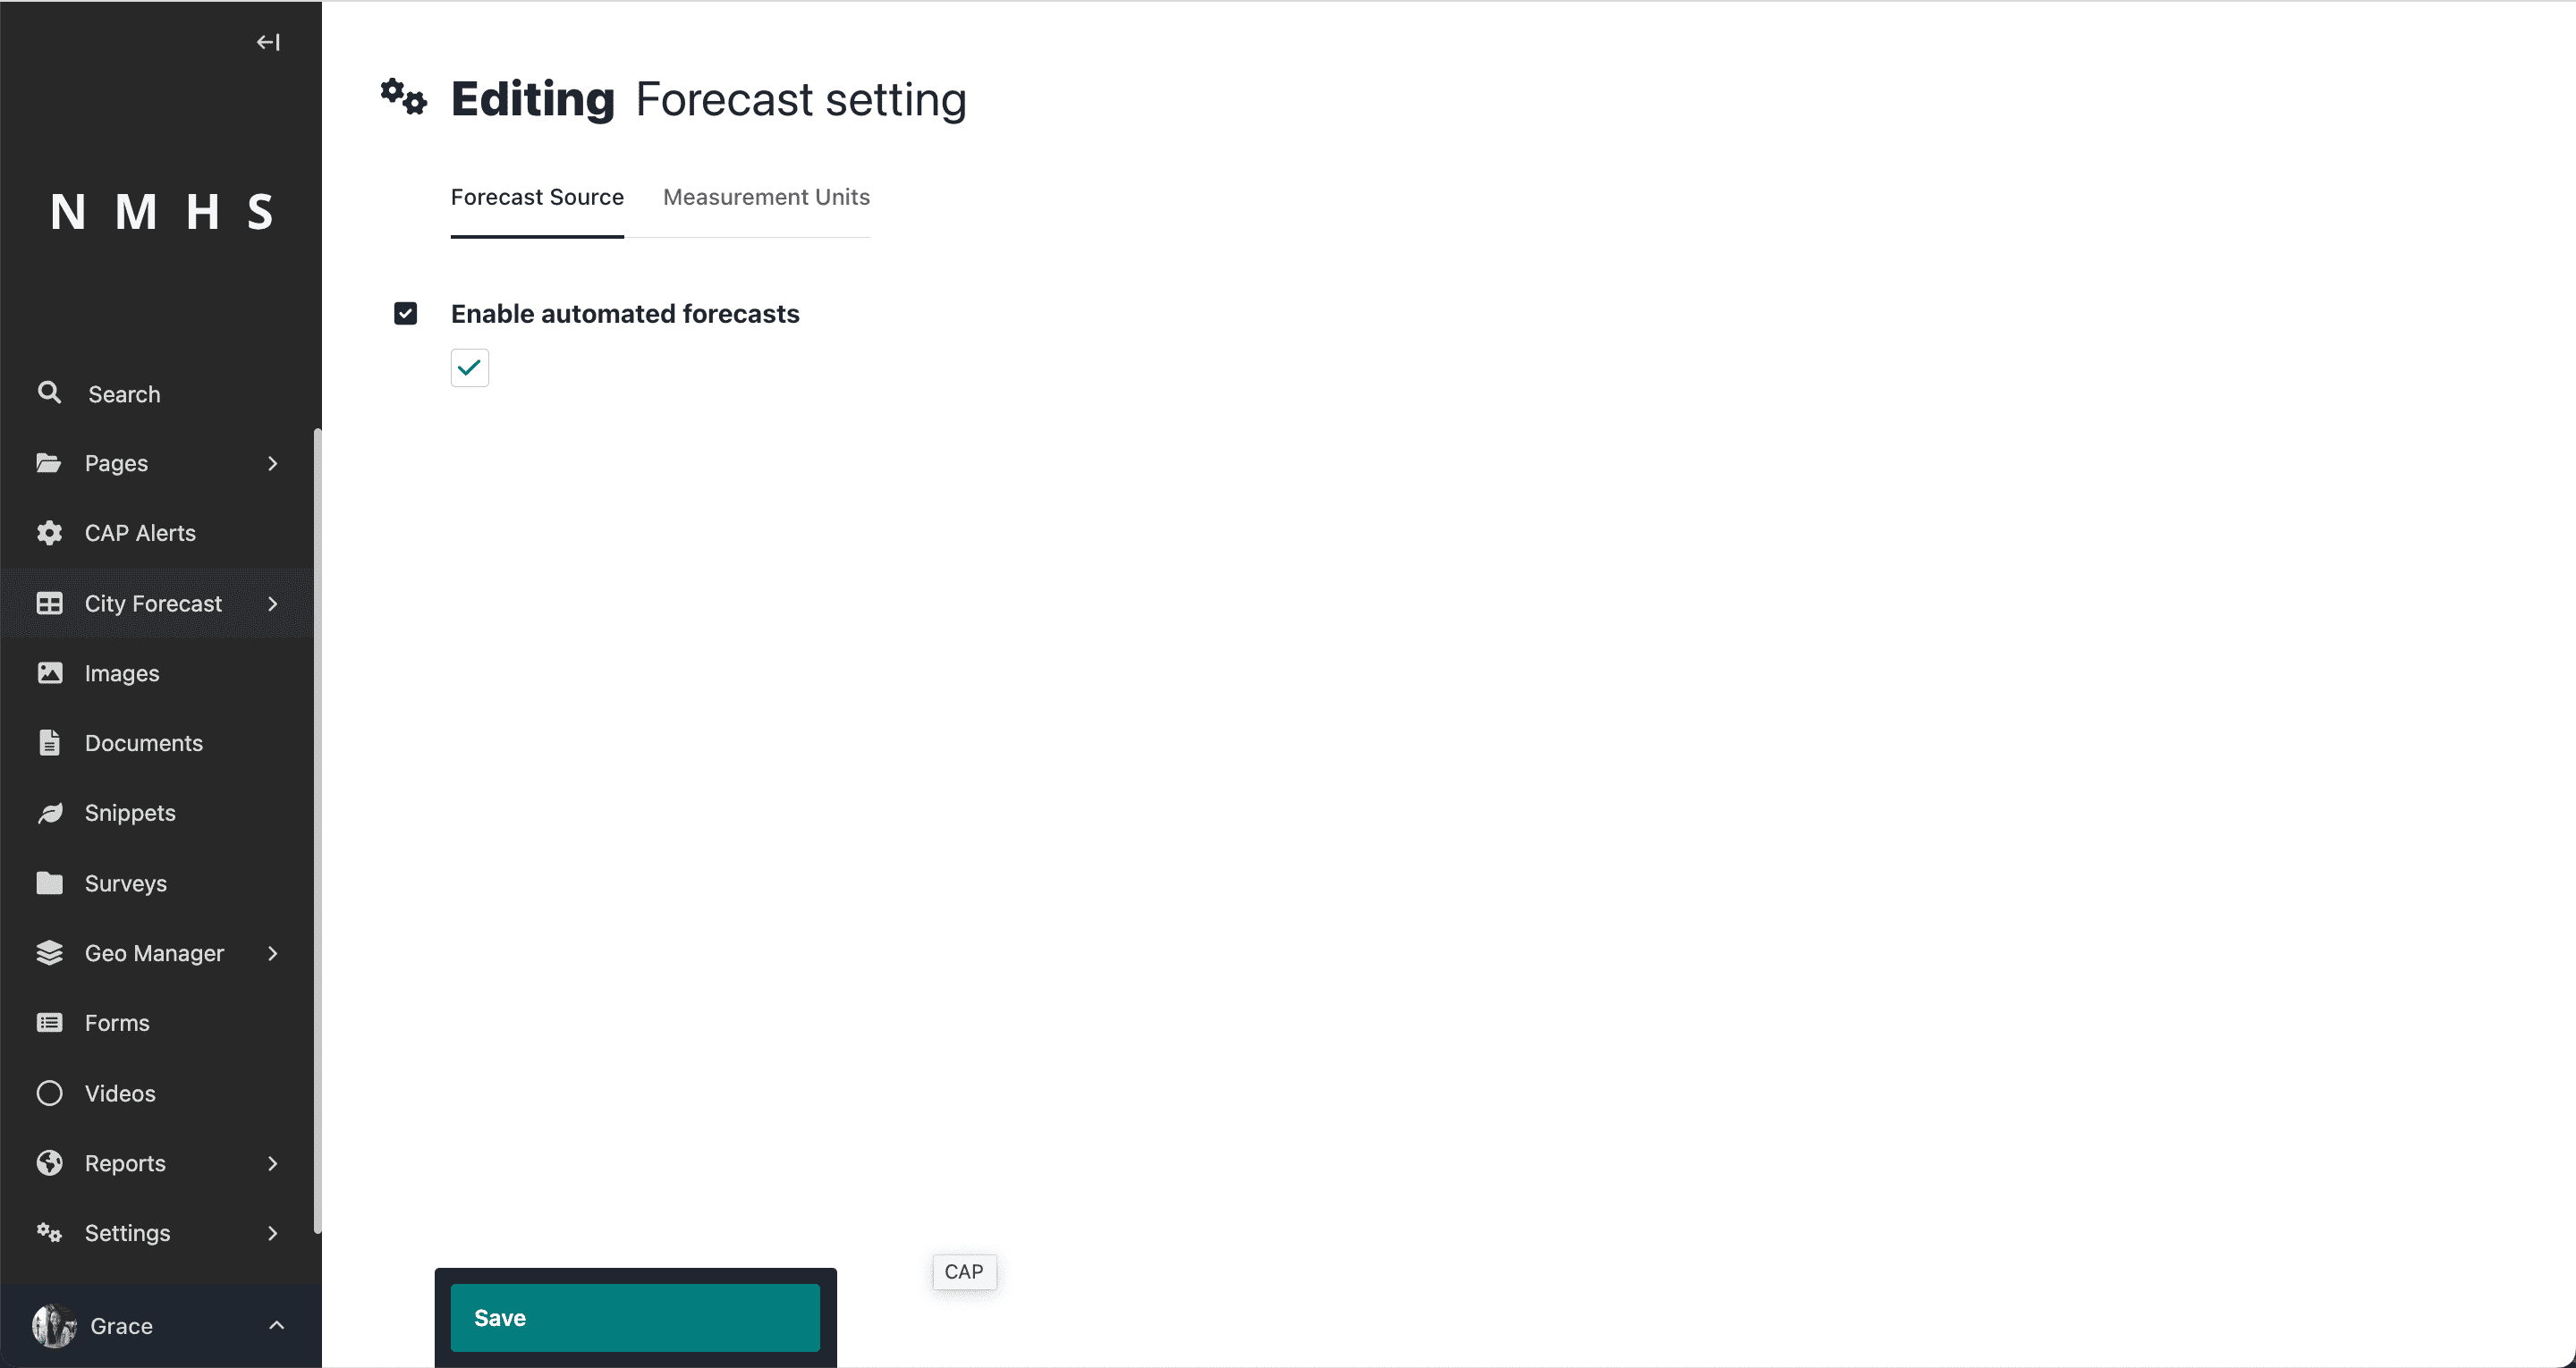
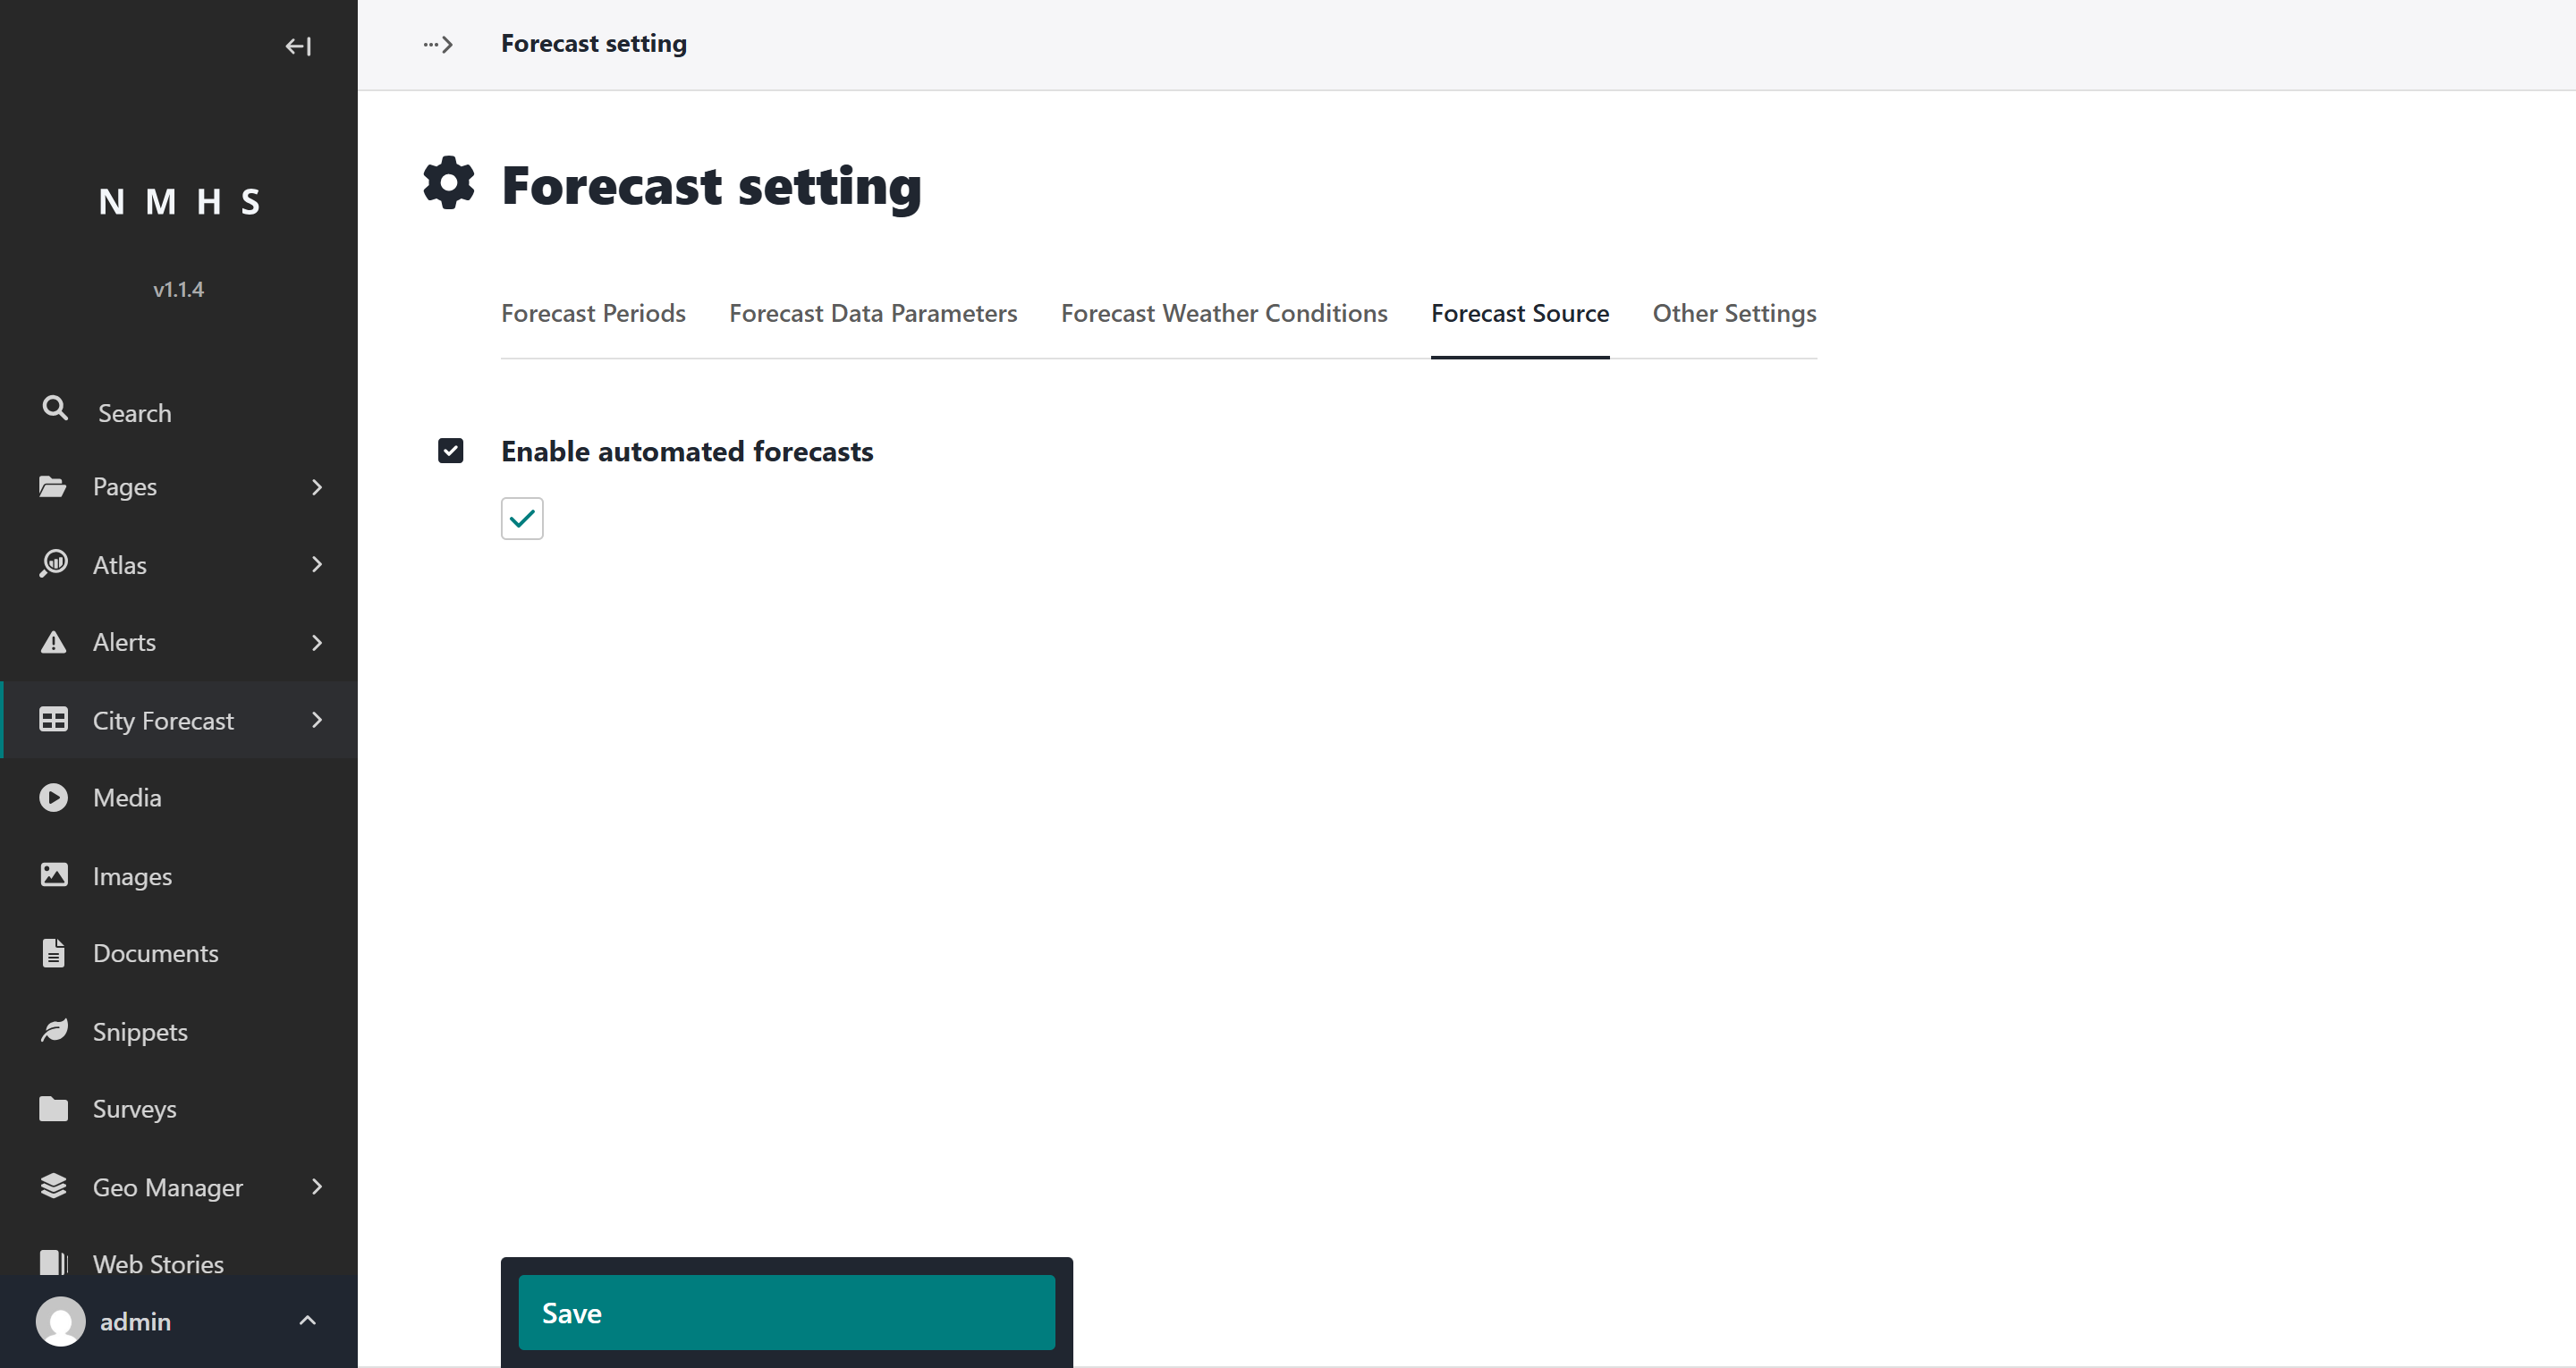
docs: document automated city forecast fetching from Yr.no (#664)
* docs: add CSV upload guide for city forecasts

Step-by-step instructions for uploading city forecast data via CSV,
including configuration, city setup, template download, data entry,
column matching, and publishing. Includes screenshots for each step.

* docs: document Yr.no automated fetching and refresh guide screenshots

- Add "Fetching from an external source" section to city forecasts guide
- Document enable/disable behaviour, forecast variables, period auto-creation
- Add troubleshooting table for common fetch failures
- Update autoforecast.png, 03b_filled_csv_excel.png, and two other screenshots
- Add myst_heading_anchors to conf.py for anchor link support
- Add cross-link in homepage-map.md

---------

Pull request: docs: document automated city forecast fetching from Yr.no
Instructions for enabling and managing automated forecast fetching from Yr.no (api.met.no), including setup steps, variable coverage, forecast period auto-creation, coexistence with CSV uploads, first-fetch behaviour, and a troubleshooting table for common failure modes. Includes updated screenshots.

## Changes

- Explain how to enable automated fetching and what happens when it is disabled or re-enabled
- Document which forecast variables are stored and note that relative humidity is not stored by ClimWeb (must be entered manually or via CSV)
- Explain that Forecast Periods are created automatically from Yr.no hourly data, no manual setup needed
- Clarify that CSV uploads and Yr.no fetches use different forecast periods and do not overwrite each other
- Document first-fetch bulk behaviour so admins know what to expect on initial setup
- Add troubleshooting table covering the most common failure modes: stopped updates, no data after setup (site address or network), stale data, cities missing forecasts, outage gaps, and incorrect condition icons
- Add cross-link from `homepage-map.md` to the new section

diff --git a/docs/conf.py b/docs/conf.py
@@ -55,6 +55,10 @@ extensions = [
 if not on_rtd:
     extensions.append("sphinxcontrib.spelling")
 
+# Generate HTML anchors for headings up to level 3 (###), so markdown links
+# like "Other-Page.md#some-heading" between doc pages resolve correctly.
+myst_heading_anchors = 3
+
 # Add any paths that contain templates here, relative to this directory.
 templates_path = ["_templates"]
 

diff --git a/docs/_docs/Manage-City-Forecasts.md b/docs/_docs/Manage-City-Forecasts.md
@@ -1,6 +1,7 @@
 # City Forecasts
 
 City forecasts on the homepage and forecasts page can be added in three ways:
+City forecasts on the homepage and forecasts page can be added in three ways:
 
 1. Manually adding daily forecasts
 2. Uploading a CSV file prepared offline
@@ -21,21 +22,231 @@ For the CSV upload method, you also need a spreadsheet application such as Micro
 The **City Forecast** menu in the left sidebar has five items: Cities, Daily Weather, Add Forecasts, Load Forecasts, and Settings.
 
 ![City Forecast menu in the left sidebar, expanded to show five items: Cities, Daily Weather, Add Forecasts, Load Forecasts, and Settings](../_static/images/city_forecasts/forecast_explorer.png "City Forecast menu")
+2. Uploading a CSV file prepared offline
+3. Fetching city forecasts automatically from an external source
 
+For step-by-step instructions on CSV uploads, see [Uploading a CSV forecast](#uploading-a-csv-forecast-manually).
+
+> **Note:** The forecast manager comes with predefined weather conditions and icons. See the Yr weather symbols documentation for icons and naming conventions: <https://api.met.no/weatherapi/weathericon/2.0/documentation>
+
+## Before you start
+
+You need a ClimWeb admin account with staff access. Go to your site's admin URL (for example, `https://your-nmhs-site.org/cms-admin/`) and sign in with your credentials. Your system administrator should have given you this URL when your account was created. If you do not have it, ask them. It typically ends in `/cms-admin/` or `/admin/`. If you do not have an account, contact your system administrator.
+
+For the CSV upload method, you also need a spreadsheet application such as Microsoft Excel or LibreOffice Calc.
+
+## Manually adding forecasts
+
+The **City Forecast** menu in the left sidebar has five items: Cities, Daily Weather, Add Forecasts, Load Forecasts, and Settings.
+
+![City Forecast menu in the left sidebar, expanded to show five items: Cities, Daily Weather, Add Forecasts, Load Forecasts, and Settings](../_static/images/city_forecasts/forecast_explorer.png "City Forecast menu")
+
+You can:
 You can:
 - Add/Edit/Delete a city (city name and location).
 
     ![Add City form showing City Name set to Gondar, coordinates filled in as 12.60417, 37.46833, and a map pin placed over northern Ethiopia](../_static/images/city_forecasts/add_city.png "Add City form with geocoded location")
+    ![Add City form showing City Name set to Gondar, coordinates filled in as 12.60417, 37.46833, and a map pin placed over northern Ethiopia](../_static/images/city_forecasts/add_city.png "Add City form with geocoded location")
 
 - Import city forecasts in CSV format.
 
+    ![City Forecast menu with Add Forecasts highlighted, showing the Forecast Manager page with a CSV upload area and an empty data grid](../_static/images/city_forecasts/add_forecast_explorer.png "City Forecast menu: Add Forecasts selected")
     ![City Forecast menu with Add Forecasts highlighted, showing the Forecast Manager page with a CSV upload area and an empty data grid](../_static/images/city_forecasts/add_forecast_explorer.png "City Forecast menu: Add Forecasts selected")
 
 
     Import city forecasts from a CSV file or type values into the data grid. To enter data manually, click any cell in the grid and type the value. When you are finished entering data, fill in the **Forecasts Date** and **Effective period** fields and click **Save**. For step-by-step CSV upload instructions, see [Uploading a CSV forecast](#uploading-a-csv-forecast-manually).
 
     ![Add Forecast page with a CSV file selected, Forecasts Date set to 2023-07-10, Match Fields dropdowns for City, Min Temp, Max Temp, and Condition, and a data grid showing three sample cities](../_static/images/city_forecasts/add_forecast.png "Add Forecast page with CSV uploaded and fields matched")
+    Import city forecasts from a CSV file or type values into the data grid. To enter data manually, click any cell in the grid and type the value. When you are finished entering data, fill in the **Forecasts Date** and **Effective period** fields and click **Save**. For step-by-step CSV upload instructions, see [Uploading a CSV forecast](#uploading-a-csv-forecast-manually).
 
+    ![Add Forecast page with a CSV file selected, Forecasts Date set to 2023-07-10, Match Fields dropdowns for City, Min Temp, Max Temp, and Condition, and a data grid showing three sample cities](../_static/images/city_forecasts/add_forecast.png "Add Forecast page with CSV uploaded and fields matched")
+
+- Preview previously added city forecasts (last 7 days).
+
+    ![City Forecast menu with Load Forecasts highlighted, showing a forecast data table and weather map of East Africa side by side](../_static/images/city_forecasts/load_forecast_explorer.png "City Forecast menu: Load Forecasts selected")
+
+    Switch between available dates and view data in either table or map format.
+
+    ![Load Forecasts page showing a date selector set to July 19, 2023, a table of 17 cities with Min Temp, Max Temp, and Condition columns, and a weather icon map of East Africa](../_static/images/city_forecasts/load_forecast.png "Load Forecasts: date selector, data table, and weather map")
+
+- Add a daily weather summary.
+
+    ![City Forecast menu with Daily Weather highlighted, showing the Daily Weathers list with one entry and an Add daily weather button](../_static/images/city_forecasts/daily_weather_explorer.png "City Forecast menu: Daily Weather selected")
+
+    ![New Daily Weather form with three sections: Weather Summary with a date field and rich text editor, Weather Forecast with a date field and rich text editor, and Extremes with a date field](../_static/images/city_forecasts/daily_weather.png "New Daily Weather form")
+
+    The daily weather summary form has three sections:
+
+    - **Weather Summary**: set the summary date and describe observed conditions using the rich text editor.
+    - **Weather Forecast**: set the forecast date and describe expected conditions.
+    - **Extremes**: add records of extreme station readings from the previous day (for example, the hottest or coldest station). Each entry requires a title, location name, and numeric value.
+
+    Here is how it appears on the website:
+
+    ![Public Daily Weather Report page showing a Stations with Extreme Measurements section listing the hottest and coldest stations, a Forecast Summary paragraph, and a Past Weather Summary paragraph](../_static/images/city_forecasts/daily_weather_preview.png "Daily Weather Report as it appears on the public website")
+
+
+## Uploading a CSV forecast manually
+
+Prepare forecast data offline in a spreadsheet, then upload it here.
+
+> **Note:** You must be logged in to the ClimWeb admin before following these steps. Go to your site's admin URL (for example, `https://your-nmhs-site.org/cms-admin/`) and sign in with your credentials.
+
+If you are setting up ClimWeb for the first time and have not added any cities or configured forecast parameters, start at Step 1. If your instance already has cities, parameters, and at least one forecast period configured, jump straight to [Step 3](#step-3-download-the-csv-template). If you are not sure, start at Step 1.
+
+### Step 1: Configure forecast setting
+
+Forecast settings control three things: what time periods you can forecast for, what data columns appear in your CSV template, and what weather condition icons are available.
+
+Go to **Settings → Forecast setting** in the left sidebar.
+
+![Forecast setting page showing the Forecast Periods tab with one period configured: Day at 12:00](../_static/images/city_forecasts/csv_upload/01_forecast_settings_periods.png "Forecast setting: Forecast Periods tab")
+
+#### Forecast Periods
+
+Click **+ Add Forecast Period**. Set the **Forecast Effective Time** to `12:00` and the **Label** to `Day`. If your service publishes morning and afternoon forecasts separately, you can add a second period here; otherwise one is enough.
+
+Click **Save**.
+
+#### Forecast Data Parameters
+
+Click the **Forecast Data Parameters** tab. Each parameter you add here becomes a column in your CSV template.
+
+Click **+ Add Data Parameter** for each of the following parameters. Leave **Use predefined parameters** ticked. Set **Parameter Type** to `Number` for all four.
+
+| Parameter Label | Parameter | Parameter Type | Unit of measurement |
+|---|---|---|---|
+| Max Temperature | Maximum Air Temperature | Number | °C |
+| Min Temperature | Minimum Air Temperature | Number | °C |
+| Wind Speed | Wind Speed | Number | m/s |
+| Relative Humidity | Relative Humidity | Number | % |
+
+![Forecast Data Parameters tab showing all four parameters configured: Max Temperature, Min Temperature, Wind Speed, and Relative Humidity, each with Parameter Type set to Number](../_static/images/city_forecasts/csv_upload/02_forecast_data_parameters.png "Forecast setting: Forecast Data Parameters tab")
+
+Click **Save**.
+
+#### Forecast Weather Conditions
+
+Click the **Forecast Weather Conditions** tab. Conditions are the weather icons that appear on the forecast map. The label you give each condition becomes the value in your CSV's Condition column, so spelling and capitalisation must match exactly. In some documentation this is called a condition code.
+
+Click **+ Add Weather Condition**. For the **Weather Symbol** field, click the button to open the **Choose symbol** dialog.
+
+![Weather symbol picker showing a grid of icons including Clear sky Day, Partly Cloudy Day, Rain, and Heavy Rain](../_static/images/city_forecasts/csv_upload/04_symbol_picker.png "Weather symbol picker")
+
+Click an icon. Add these four conditions.
+
+| Symbol to select | Label |
+|---|---|
+| Clear sky Day | Clear Sky |
+| Partly Cloudy Day | Partly Cloudy |
+| Rain | Rain |
+| Heavy Rain | Heavy Rain |
+
+![Forecast Weather Conditions tab showing all four conditions: Clear Sky, Partly Cloudy, Rain, and Heavy Rain, each with a weather icon selected](../_static/images/city_forecasts/csv_upload/03_weather_conditions.png "Forecast setting: Forecast Weather Conditions tab")
+
+Click **Save**.
+
+> **Note:** **Forecast Source** and **Other Settings** are for the automated Yr.no integration. Skip them for CSV uploads.
+
+### Step 2: Add cities
+
+In the left sidebar, go to **City Forecast → Cities**, then click **Add City**.
+
+Type a city name in the **City Name** field. ClimWeb uses OpenStreetMap to look up the location and place a pin on the map automatically.
+
+![Add City page showing "Dar es Salaam" entered in the name field, with coordinates filled in automatically and a map pin placed over the coast of Tanzania](../_static/images/city_forecasts/csv_upload/05_add_city.png "Add City: location geocoded automatically from the city name")
+
+Check that the pin landed in the right place, then click **Save**. Repeat for every city you want to include.
+
+If the pin is in the wrong location, drag it to the correct spot, or type the correct coordinates directly into the **Latitude** and **Longitude** fields. If ClimWeb cannot find the city by name, try adding the country (for example, `Nairobi, Kenya` instead of `Nairobi`).
+
+### Step 3: Download the CSV template
+
+In the left sidebar, go to **City Forecast → Add Forecasts**, then click **+ Add Forecast**. The page that opens is headed **New**: this is where you enter and upload your forecast data.
+
+Click **download a template** in the blue notice at the top of the page to download `forecast_template.csv`.
+
+![Add Forecast page showing the blue information banner with the "download a template" link, the Forecasts Date field, Effective period dropdown, and the empty data grid on the right](../_static/images/city_forecasts/csv_upload/06_add_forecast_empty.png "Add Forecast page: download the template from the blue banner")
+
+The template reflects the cities and parameters currently in the system. If you add cities after downloading, re-download the template or add rows manually.
+
+> **Note:** The date is not a column in the CSV. You set the forecast date separately in Step 6 after uploading the file.
+
+```
+City,Max Temperature,Min Temperature,Wind Speed,Relative Humidity,Condition
+Nairobi,,,,,
+Mombasa,,,,,
+Kisumu,,,,,
+```
+
+| Column | What to enter |
+|---|---|
+| City | Exact city name as added in Step 2 |
+| Max Temperature | Number in °C, no units |
+| Min Temperature | Number in °C, no units |
+| Wind Speed | Number in m/s, no units |
+| Relative Humidity | Number in %, no units |
+| Condition | Exact label from Step 1 (for example, `Clear Sky`) |
+
+### Step 4: Fill in your forecast data
+
+Open the template in a spreadsheet or text editor and enter values for each city:
+
+- **Condition values must match exactly.** Type `Clear Sky`, `Rain`, or whichever label you set up in Step 1. ClimWeb rejects the upload if any condition label does not match.
+- **City names must match exactly.** The names in your CSV must be spelled the same way as when you added the cities in Step 2, including capitalisation. ClimWeb skips rows with city names it does not recognise.
+- **All cells must have a value.** Every cell needs a value or the upload will fail.
+- **Data column values must be numbers.** Temperature, wind speed, and humidity must be numbers. Negative values are accepted (for example, a minimum temperature of `-3`). Do not include units such as °C or m/s in the cells.
+
+```
+City,Max Temperature,Min Temperature,Wind Speed,Relative Humidity,Condition
+Eldoret,26,14,3,65,Partly Cloudy
+Kisumu,31,18,4,72,Rain
+Mombasa,33,24,6,80,Clear Sky
+Nairobi,28,15,3,60,Partly Cloudy
+Nakuru,27,13,2,58,Clear Sky
+```
+
+![Filled forecast_template.csv open in Excel showing five Kenyan cities with Max Temperature, Min Temperature, Wind Speed, Relative Humidity, and Condition values entered](../_static/images/city_forecasts/csv_upload/03b_filled_csv_excel.png "Filled CSV template open in Excel")
+
+Save the file. In Excel, use **File → Save As** and select **CSV UTF-8 (Comma delimited)** from the format dropdown. Saving as a different CSV format may cause the upload to fail. One city per upload is valid, but three or more makes column-matching errors easier to spot.
+
+### Step 5: Upload the CSV and verify column matching
+
+Go back to the **Add Forecast** page. Click **Choose File** and select your filled CSV.
+
+A **Match Fields** section appears above the data grid, showing one dropdown per column. ClimWeb matches each CSV column to the corresponding parameter by comparing your column headers to the parameter names from Step 1.
+
+Check each dropdown. If a column is wrong, open its dropdown and select the right parameter. Pay particular attention to the **City** column: if it is not correctly mapped, no rows will appear in the data grid. ClimWeb ignores any extra columns that do not match a parameter.
+
+![Add Forecast page after uploading the CSV, showing the Match Fields dropdowns: City, Max Temperature, Min Temperature, Wind Speed, Relative Humidity, Condition, all correctly matched, with the data grid below showing five city rows](../_static/images/city_forecasts/csv_upload/07_match_fields.png "Match Fields section: verify each column is mapped correctly before saving")
+
+### Step 6: Set the date and save
+
+On the left side of the page, fill in the remaining fields:
+
+1. **Forecasts Date**: enter the date this forecast covers in `YYYY-MM-DD` format, for example `2026-05-26`.
+2. **Effective period**: select the period you set up earlier, for example `Day`. If the dropdown is empty, go to **Settings → Forecast setting → Forecast Periods** and add at least one period first.
+3. **Replace existing data if found**: this checkbox is ticked by default. Leave it ticked to permanently replace the existing forecast with your new data. Untick it to keep the existing forecast and discard your new upload. **Overwriting cannot be reversed; the previous data is deleted.**
+
+![Add Forecast page with Forecasts Date set to 2026-05-26, Effective period set to Day, and the data grid showing all five city rows](../_static/images/city_forecasts/csv_upload/08_date_period_filled.png "Add Forecast: date and period set, ready to save")
+
+Click **Save**. ClimWeb publishes the forecast immediately and takes you back to the Forecasts list. There is no separate publish step. To confirm, go to your site's homepage (for example, `https://your-nmhs-site.org/`), click **Forecasts** in the navigation, and check that the forecast appears.
+
+![Forecasts list showing one saved entry: 2026-05-26, Day period, updated 2 hours ago](../_static/images/city_forecasts/csv_upload/09_forecast_list.png "Forecasts list after saving")
+
+Click the forecast row to review the data.
+
+To correct a forecast, upload a new CSV for the same date and period with **Replace existing data if found** ticked. To delete a forecast, open it from the Forecasts list and click **Delete** at the bottom of the page.
+
+![Forecast detail view showing five Kenyan cities: Eldoret, Kisumu, Mombasa, Nairobi, Nakuru, each with a weather condition icon and values for Max Temperature, Min Temperature, Wind Speed, and Relative Humidity](../_static/images/city_forecasts/csv_upload/10_forecast_view.png "Forecast detail: Tuesday 26 May, Day period")
+
+> **If something goes wrong:**
+>
+> - **Data grid is empty after upload:** You may have saved it in a non-CSV format, or Excel may still have it open. Close it in Excel, save it again as CSV with UTF-8 encoding (select this option in the **Save As** dialog), and try again.
+> - **Fewer rows than expected in the data grid:** City names in your CSV do not match the names in the system. ClimWeb skips any city names it does not recognise, without showing a warning. Download a fresh template and compare the city names.
+> - **Error when saving:** Confirm that **Forecasts Date** and **Effective period** are both filled in. Both are required.
+> - **Columns matched to the wrong parameters:** Correct the **Match Fields** dropdowns before saving. If you have already saved with wrong mappings, upload again with **Replace existing data if found** ticked and the dropdowns set correctly.
+> - **Some rows show blank values in the data grid:** A cell in your CSV was left empty. Fill in every cell, save the file, and upload again.
 - Preview previously added city forecasts (last 7 days).
 
     ![City Forecast menu with Load Forecasts highlighted, showing a forecast data table and weather map of East Africa side by side](../_static/images/city_forecasts/load_forecast_explorer.png "City Forecast menu: Load Forecasts selected")

diff --git a/docs/_docs/manage_settings/homepage-map.md b/docs/_docs/manage_settings/homepage-map.md
@@ -45,7 +45,8 @@ Click on (1)Settings > (2) Homepage map settings
   the map. By default, it is set to `Location Forecast`. You can change it, for example, to the corresponding language
   of your Climweb Instance.
 - **Show Location Forecast Attribution**: Check this box to show the attribution for the location forecast data, if you
-  are pulling forecast data from [YR.no](https://yr.no/) api. By default, this is disabled.
+  are pulling forecast data from [YR.no](https://yr.no/) api. By default, this is disabled. To enable automated Yr.no
+  forecasts, see [Fetching from an external source](../Manage-City-Forecasts.md#fetching-from-an-external-source).
 - **Location Forecast date display format**: This is the format in which the date will be displayed on the map for the
   location forecast layer. You can select the correct format from the dropdown list.
 - **Cluster Location Forecast Points**: Check this box to cluster the location forecast points on the map. This is